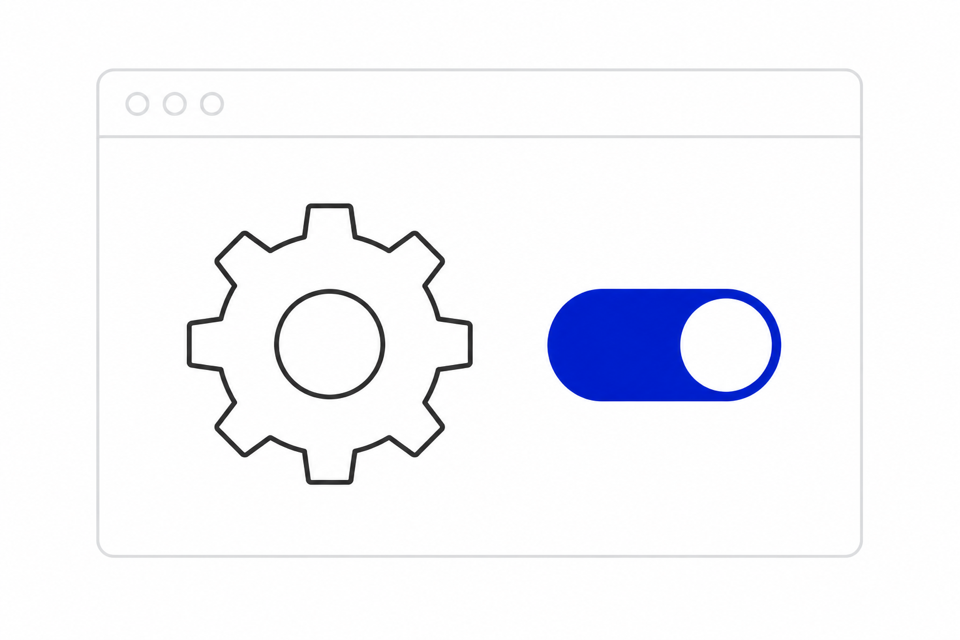
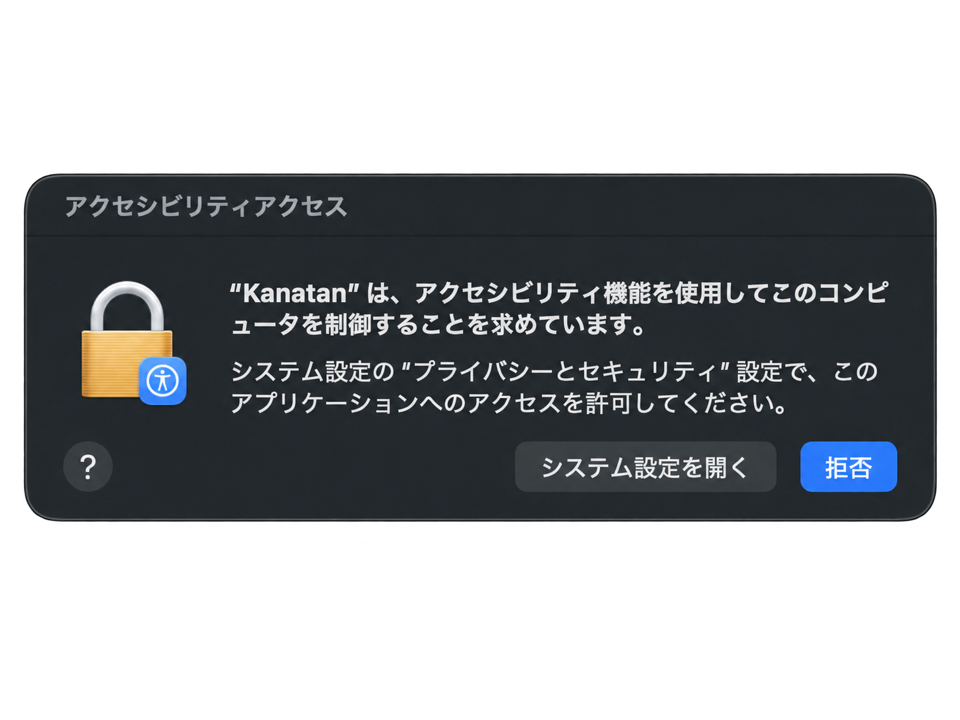
feat: re-prompt accessibility dialog on Retry Monitoring, use real dialog screenshot on LP
- Retry Monitoring now calls AXIsProcessTrustedWithOptions with the
  prompt option so the permission dialog reappears
- LP step 2 image replaced with the actual macOS permission dialog

diff --git a/docs/index.html b/docs/index.html
@@ -394,7 +394,7 @@
         <p>ダウンロードして、アプリケーションフォルダへ。</p>
       </div>
       <div class="step">
-        <img src="assets/step-permission.png" alt="システム設定のアクセシビリティでKanatanを許可する画面" width="480" height="320">
+        <img src="assets/step-permission.png" alt="Kanatanがアクセシビリティ機能の使用許可を求めるmacOSのダイアログ" width="480" height="360">
         <h3>許可を1回だけON</h3>
         <p>アクセシビリティの許可を1回だけONにします。</p>
       </div>

diff --git a/Sources/KanatanApp/AppDelegate.swift b/Sources/KanatanApp/AppDelegate.swift
@@ -99,7 +99,9 @@ final class AppDelegate: NSObject, NSApplicationDelegate {
     @objc private func retryMonitoring() {
         commandKeyMonitor?.stop()
         commandKeyMonitor = nil
-        startMonitoring(promptForAccessibility: false)
+        // Prompt again so the user can bring the accessibility dialog back
+        // instead of digging through System Settings.
+        startMonitoring(promptForAccessibility: true)
     }
 
     @objc private func openAccessibilitySettings() {
